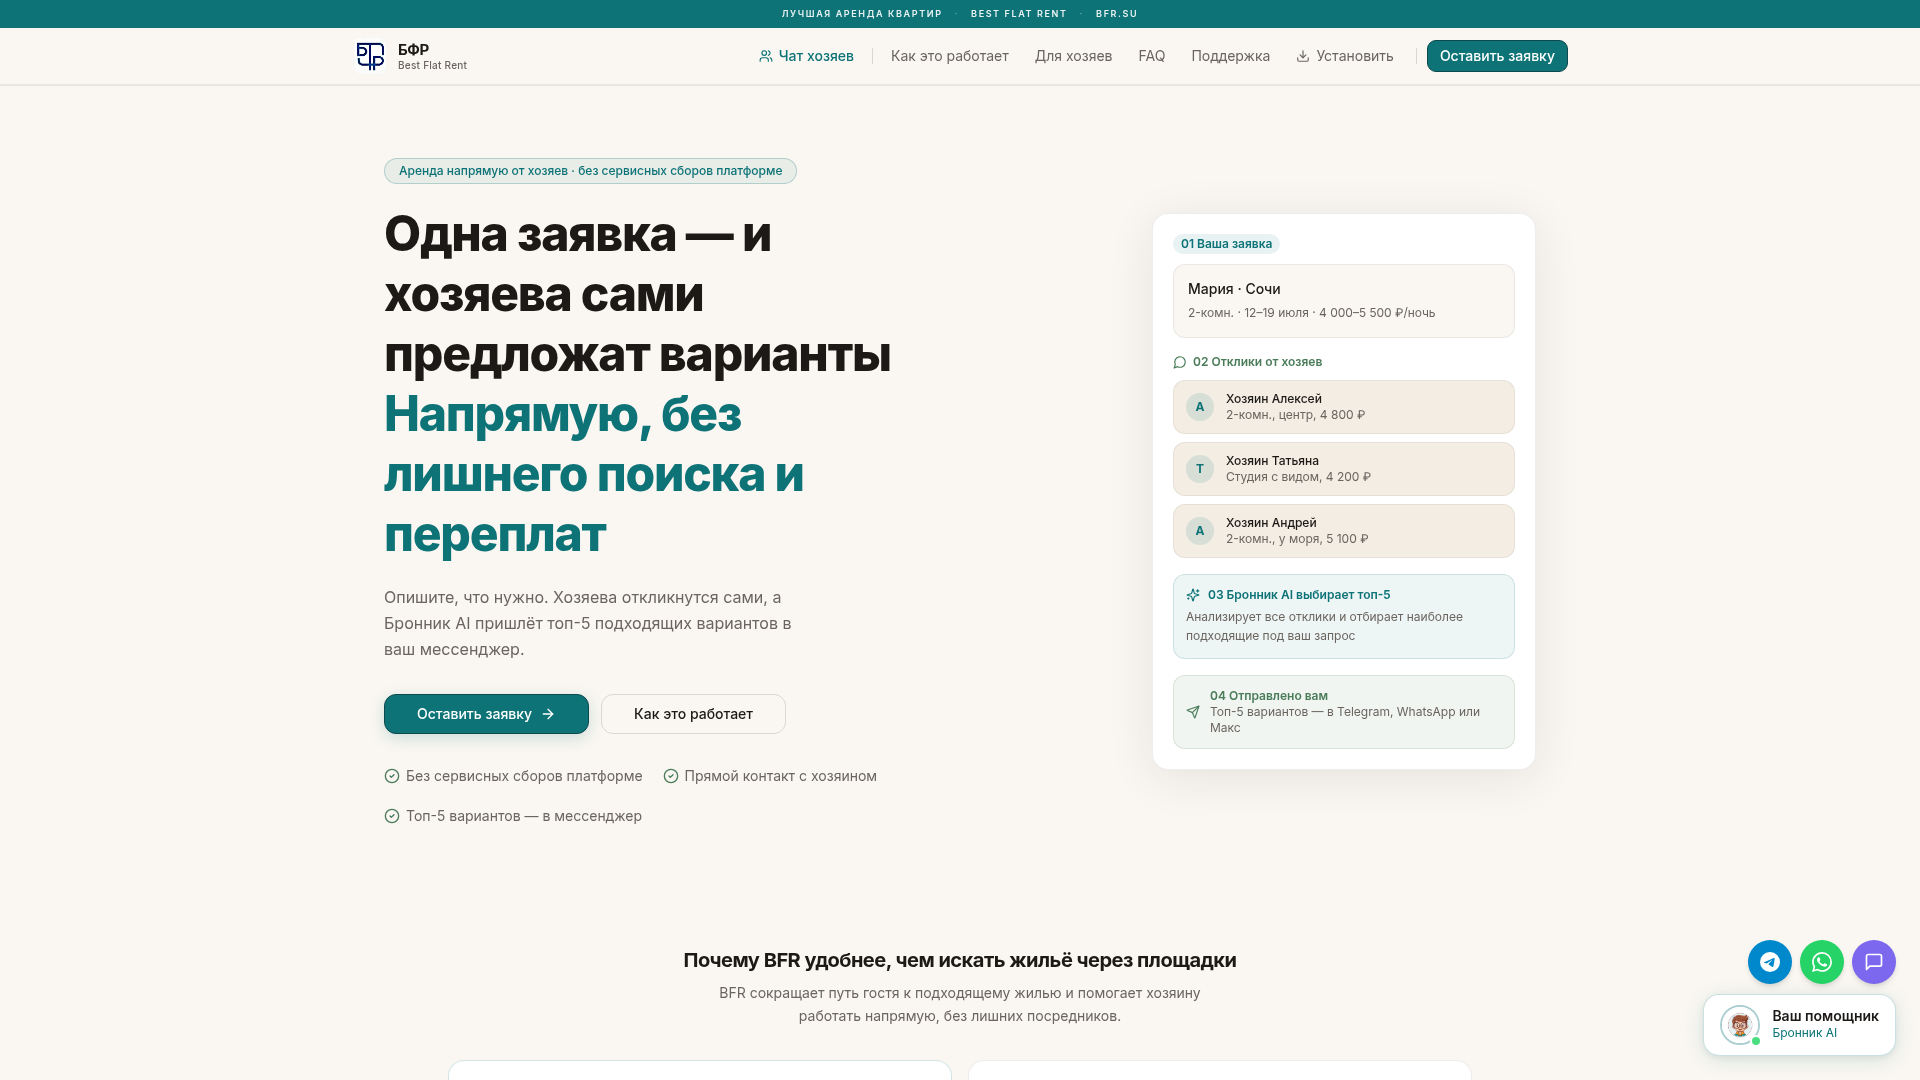
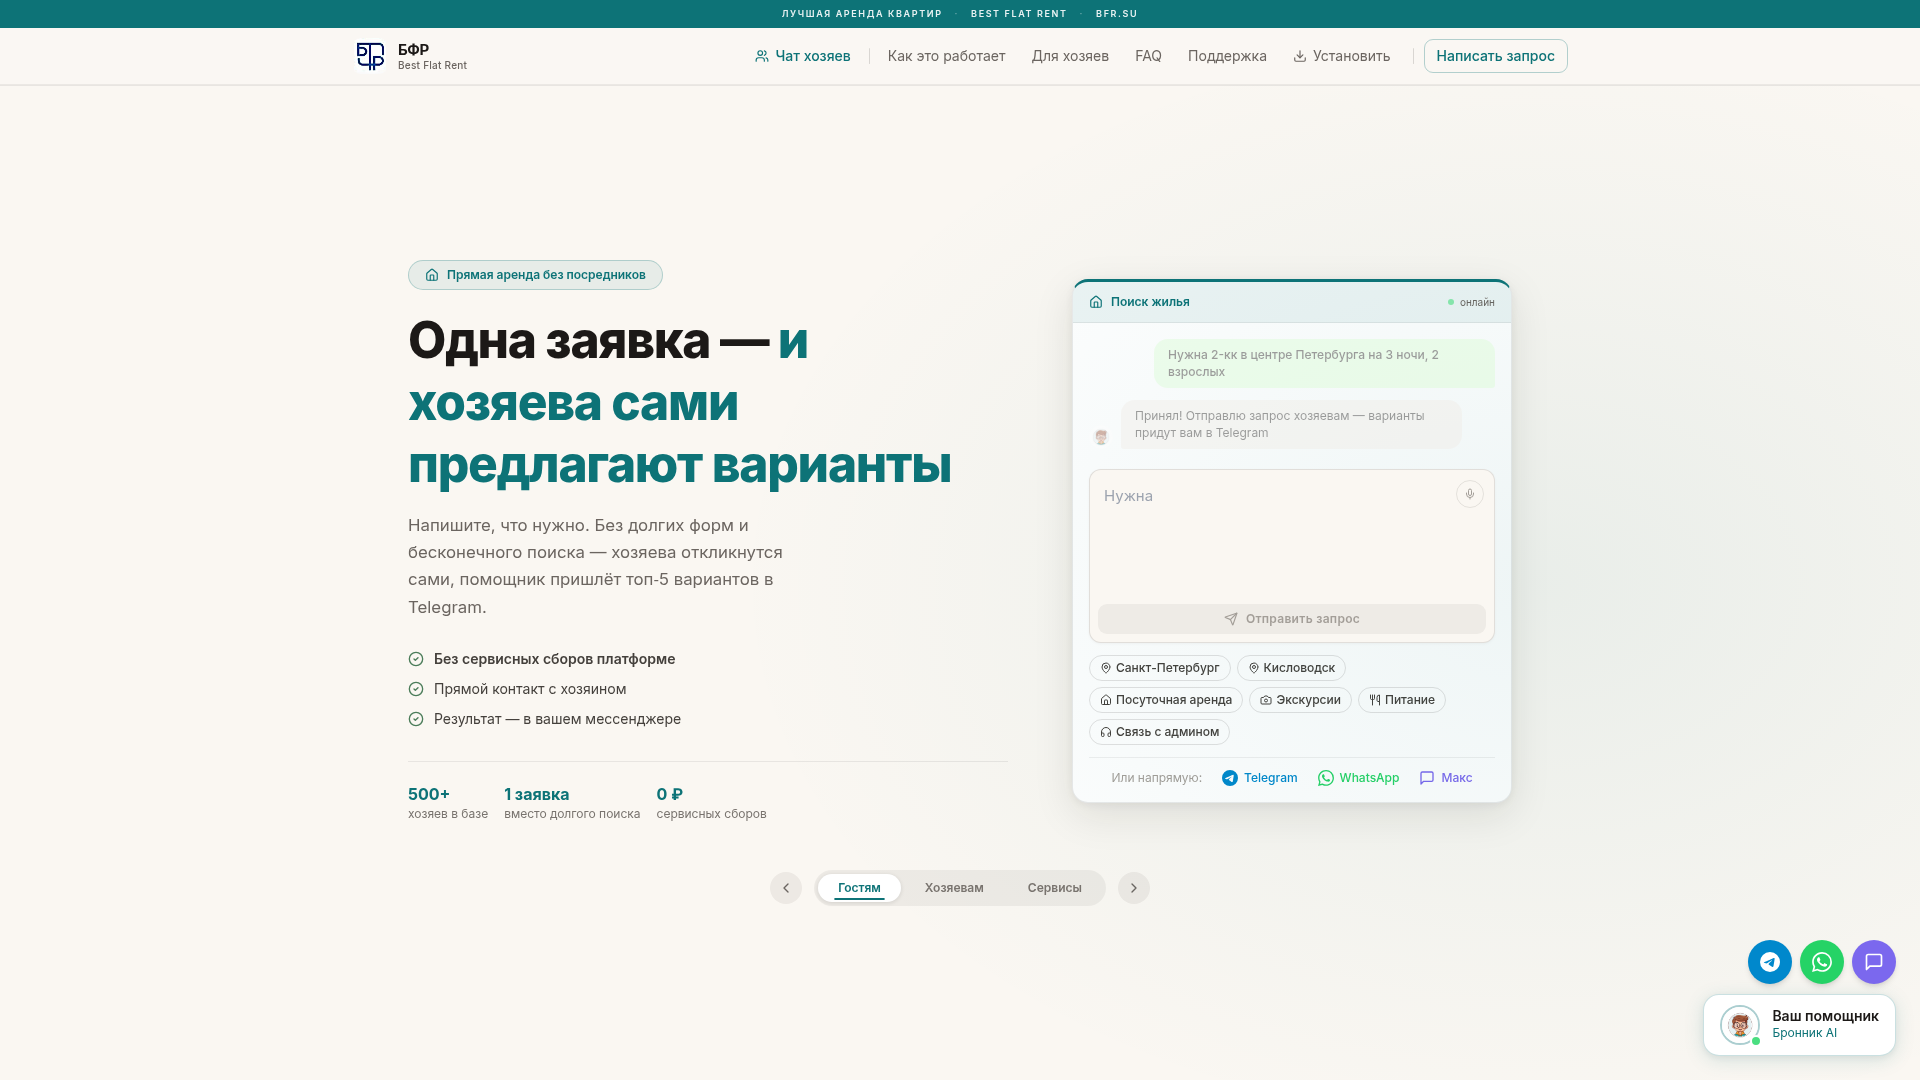
Sync project from Replit — БФР BFR.su

diff --git a/client/src/main.tsx b/client/src/main.tsx
@@ -1,5 +1,36 @@
+import { Component, type ReactNode } from "react";
 import { createRoot } from "react-dom/client";
 import App from "./App";
 import "./index.css";
 
-createRoot(document.getElementById("root")!).render(<App />);
+class ErrorBoundary extends Component<{ children: ReactNode }, { error: Error | null }> {
+  constructor(props: { children: ReactNode }) {
+    super(props);
+    this.state = { error: null };
+  }
+  static getDerivedStateFromError(error: Error) {
+    return { error };
+  }
+  componentDidCatch(error: Error, info: { componentStack: string }) {
+    console.error("React error:", error, info);
+  }
+  render() {
+    if (this.state.error) {
+      return (
+        <div style={{ fontFamily: "sans-serif", padding: "20px", maxWidth: "600px", margin: "40px auto" }}>
+          <h2 style={{ color: "#c00" }}>Ошибка приложения</h2>
+          <pre style={{ fontSize: "12px", color: "#333", whiteSpace: "pre-wrap", wordBreak: "break-all", background: "#fee", padding: "12px", borderRadius: "6px" }}>
+            {this.state.error.message}{"\n\n"}{this.state.error.stack}
+          </pre>
+        </div>
+      );
+    }
+    return this.props.children;
+  }
+}
+
+createRoot(document.getElementById("root")!).render(
+  <ErrorBoundary>
+    <App />
+  </ErrorBoundary>
+);

diff --git a/client/src/components/LandingHero.tsx b/client/src/components/LandingHero.tsx
@@ -206,6 +206,9 @@ function SceneServicesText() {
 ───────────────────────────────────────── */
 const SCENE_LABELS = ["Гостям", "Хозяевам", "Сервисы"];
 
+/* Host-intent hashes deep-link straight into the "Хозяевам" scene */
+const OWNER_HASHES = ["#audiences", "#owner", "#hosts", "#become-host", "#for-hosts"];
+
 /* ─────────────────────────────────────────
    MAIN COMPONENT
 ───────────────────────────────────────── */
@@ -238,7 +241,27 @@ export default function LandingHero({ onOwnerClick }: LandingHeroProps) {
     return () => clearTimeout(t);
   }, [scene, paused, goTo]);
 
-  /* Scene 0 (Гостям) is always the default start — no hash override */
+  const goToRef = useRef(goTo);
+  goToRef.current = goTo;
+
+  /* Host-intent hashes open the "Хозяевам" scene — on load and on hashchange */
+  useEffect(() => {
+    if (typeof window === "undefined") return;
+
+    const syncSceneFromHash = (fromEvent: boolean) => {
+      if (!OWNER_HASHES.includes(window.location.hash)) return;
+      setPaused(true);
+      goToRef.current(1);
+      if (fromEvent) {
+        document.getElementById("hero")?.scrollIntoView({ behavior: "smooth" });
+      }
+    };
+
+    syncSceneFromHash(false);
+    const onHashChange = () => syncSceneFromHash(true);
+    window.addEventListener("hashchange", onHashChange);
+    return () => window.removeEventListener("hashchange", onHashChange);
+  }, []);
 
   const accentColor = SCENE_COLORS[scene];
   const heroBg = SCENE_BG[scene];

diff --git a/client/index.html b/client/index.html
@@ -38,6 +38,24 @@
   </head>
   <body>
     <div id="root"></div>
+    <script>
+      (function() {
+        var supported = true;
+        try { eval('(0??0)'); } catch(e) { supported = false; }
+        if (!supported) {
+          document.addEventListener('DOMContentLoaded', function() {
+            var r = document.getElementById('root');
+            if (r) {
+              r.style.cssText = 'font-family:sans-serif;text-align:center;padding:60px 20px;max-width:380px;margin:0 auto';
+              r.innerHTML = '<div style="width:64px;height:64px;border-radius:16px;background:#0d7377;margin:0 auto 20px;display:flex;align-items:center;justify-content:center"><svg width="32" height="32" fill="none" stroke="white" stroke-width="2" viewBox="0 0 24 24"><path d="M3 9l9-7 9 7v11a2 2 0 01-2 2H5a2 2 0 01-2-2z"/><polyline points="9 22 9 12 15 12 15 22"/></svg></div>'
+                + '<h2 style="color:#1c1917;margin:0 0 12px;font-size:20px">Обновите iOS</h2>'
+                + '<p style="color:#6b6560;margin:0 0 8px;line-height:1.6">Сайт БФР требует iOS 13.4 или новее.</p>'
+                + '<p style="color:#6b6560;font-size:14px;line-height:1.6">Перейдите в Настройки &rarr; Основные &rarr; Обновление ПО</p>';
+            }
+          });
+        }
+      })();
+    </script>
     <noscript>
       <div style="font-family:sans-serif;max-width:800px;margin:40px auto;padding:0 20px">
         <h1>БФР — Best Flat Rent</h1>

diff --git a/server/index.ts b/server/index.ts
@@ -16,6 +16,14 @@ app.use(express.json({
 }));
 app.use(express.urlencoded({ extended: false }));
 
+// CORS headers for static assets — required for iOS Safari with crossorigin module scripts
+app.use((req, res, next) => {
+  if (req.path.startsWith("/assets/") || req.path.match(/\.(js|css|woff|woff2|ttf|otf)$/)) {
+    res.setHeader("Access-Control-Allow-Origin", "*");
+  }
+  next();
+});
+
 // Disable browser caching for HTML pages so refreshing always loads fresh JS
 app.use((req, res, next) => {
   if (!req.path.startsWith("/api") && !req.path.startsWith("/ws") && !req.path.match(/\.(js|css|png|jpg|svg|ico|woff|woff2|json)$/)) {

diff --git a/vite.config.ts b/vite.config.ts
@@ -27,7 +27,13 @@ export default defineConfig({
     },
   },
   root: path.resolve(import.meta.dirname, "client"),
+  esbuild: {
+    supported: {
+      bigint: true,
+    },
+  },
   build: {
+    target: ["es2015"],
     outDir: path.resolve(import.meta.dirname, "dist/public"),
     emptyOutDir: true,
   },

diff --git a/server/routes.ts b/server/routes.ts
@@ -3,6 +3,7 @@ import { createServer, type Server } from "http";
 import { storage, verifyPassword, hashPassword } from "./storage";
 import { insertApartmentRequestSchema, insertOwnerApplicationSchema, insertChatMessageSchema } from "@shared/schema";
 import { insertChatUserSchema } from "@shared/schema";
+import { ZodError } from "zod";
 import { registerBronnikRoutes } from "./bronnik";
 import { setupChatWebSocket } from "./chat";
 
@@ -68,6 +69,10 @@ export async function registerRoutes(app: Express): Promise<Server> {
       const user = await storage.createChatUser(data);
       res.json({ success: true, user: { id: user.id, name: user.name, email: user.email, city: user.city, isAdmin: user.isAdmin } });
     } catch (error) {
+      if (error instanceof ZodError) {
+        const msg = error.errors[0]?.message ?? "Проверьте введённые данные";
+        return res.status(400).json({ success: false, message: msg });
+      }
       res.status(400).json({ success: false, message: error instanceof Error ? error.message : "Ошибка регистрации" });
     }
   });

diff --git a/client/src/components/HelpFooter.tsx b/client/src/components/HelpFooter.tsx
@@ -65,10 +65,10 @@ export default function HelpFooter({ onGuestClick, onOwnerClick }: HelpFooterPro
             <h4 className="font-semibold mb-4 text-sm" style={{ color: "#faf7f2" }}>Для хозяев</h4>
             <ul className="space-y-3 text-sm" style={{ color: "#a39e98" }}>
               <li>
-                <button onClick={onOwnerClick}
+                <a href="#audiences"
                   className="transition-colors text-left hover:text-[#149ea3]" data-testid="link-footer-become-host">
                   Стать хозяином
-                </button>
+                </a>
               </li>
               <li>
                 <a href="https://t.me/bfrreplit_bot" target="_blank" rel="noopener noreferrer"

diff --git a/client/src/index.css b/client/src/index.css
@@ -133,6 +133,10 @@
 
   body {
     @apply font-sans antialiased bg-background text-foreground;
+    overflow-x: hidden;
+  }
+  html {
+    overflow-x: hidden;
   }
 }
 

diff --git a/client/src/components/BronnikChat.tsx b/client/src/components/BronnikChat.tsx
@@ -197,8 +197,9 @@ export default function BronnikChat() {
       {/* ── Chat panel ── */}
       {isOpen && (
         <div
-          className="w-[340px] rounded-2xl flex flex-col overflow-hidden"
+          className="rounded-2xl flex flex-col overflow-hidden"
           style={{
+            width: "min(340px, calc(100vw - 48px))",
             height: "460px",
             background: "#ffffff",
             border: "1px solid rgba(13,115,119,0.18)",